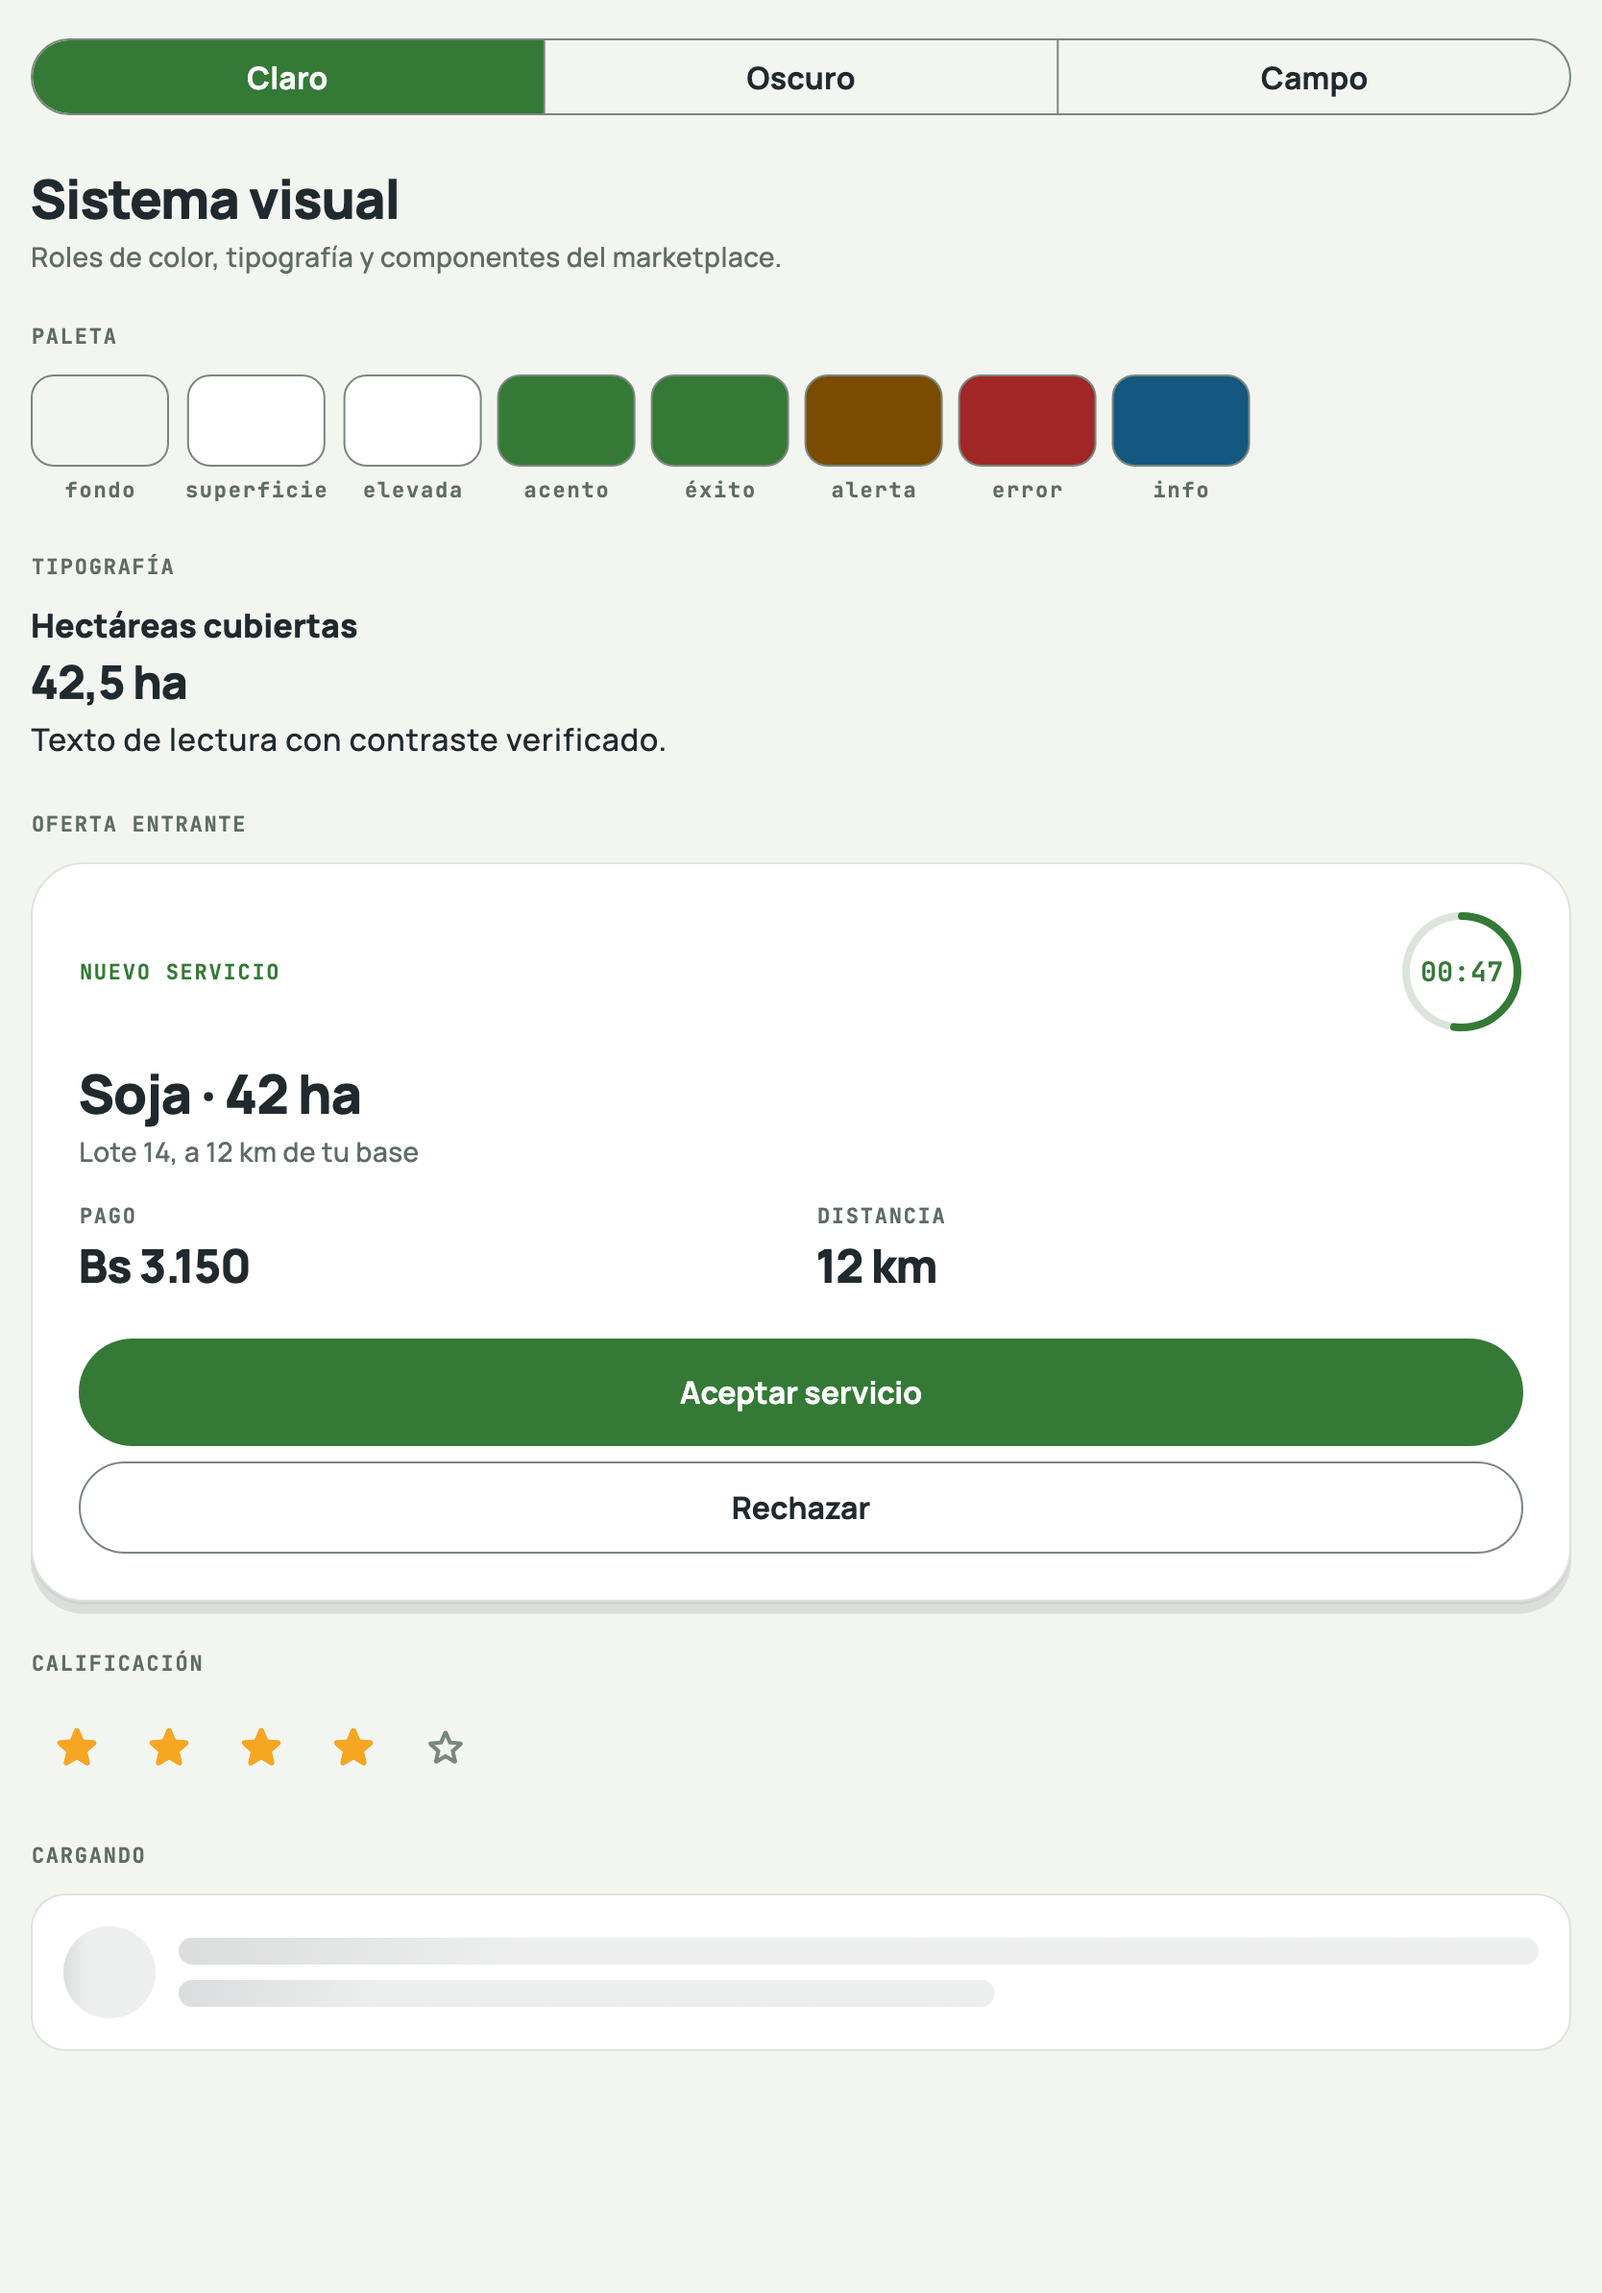
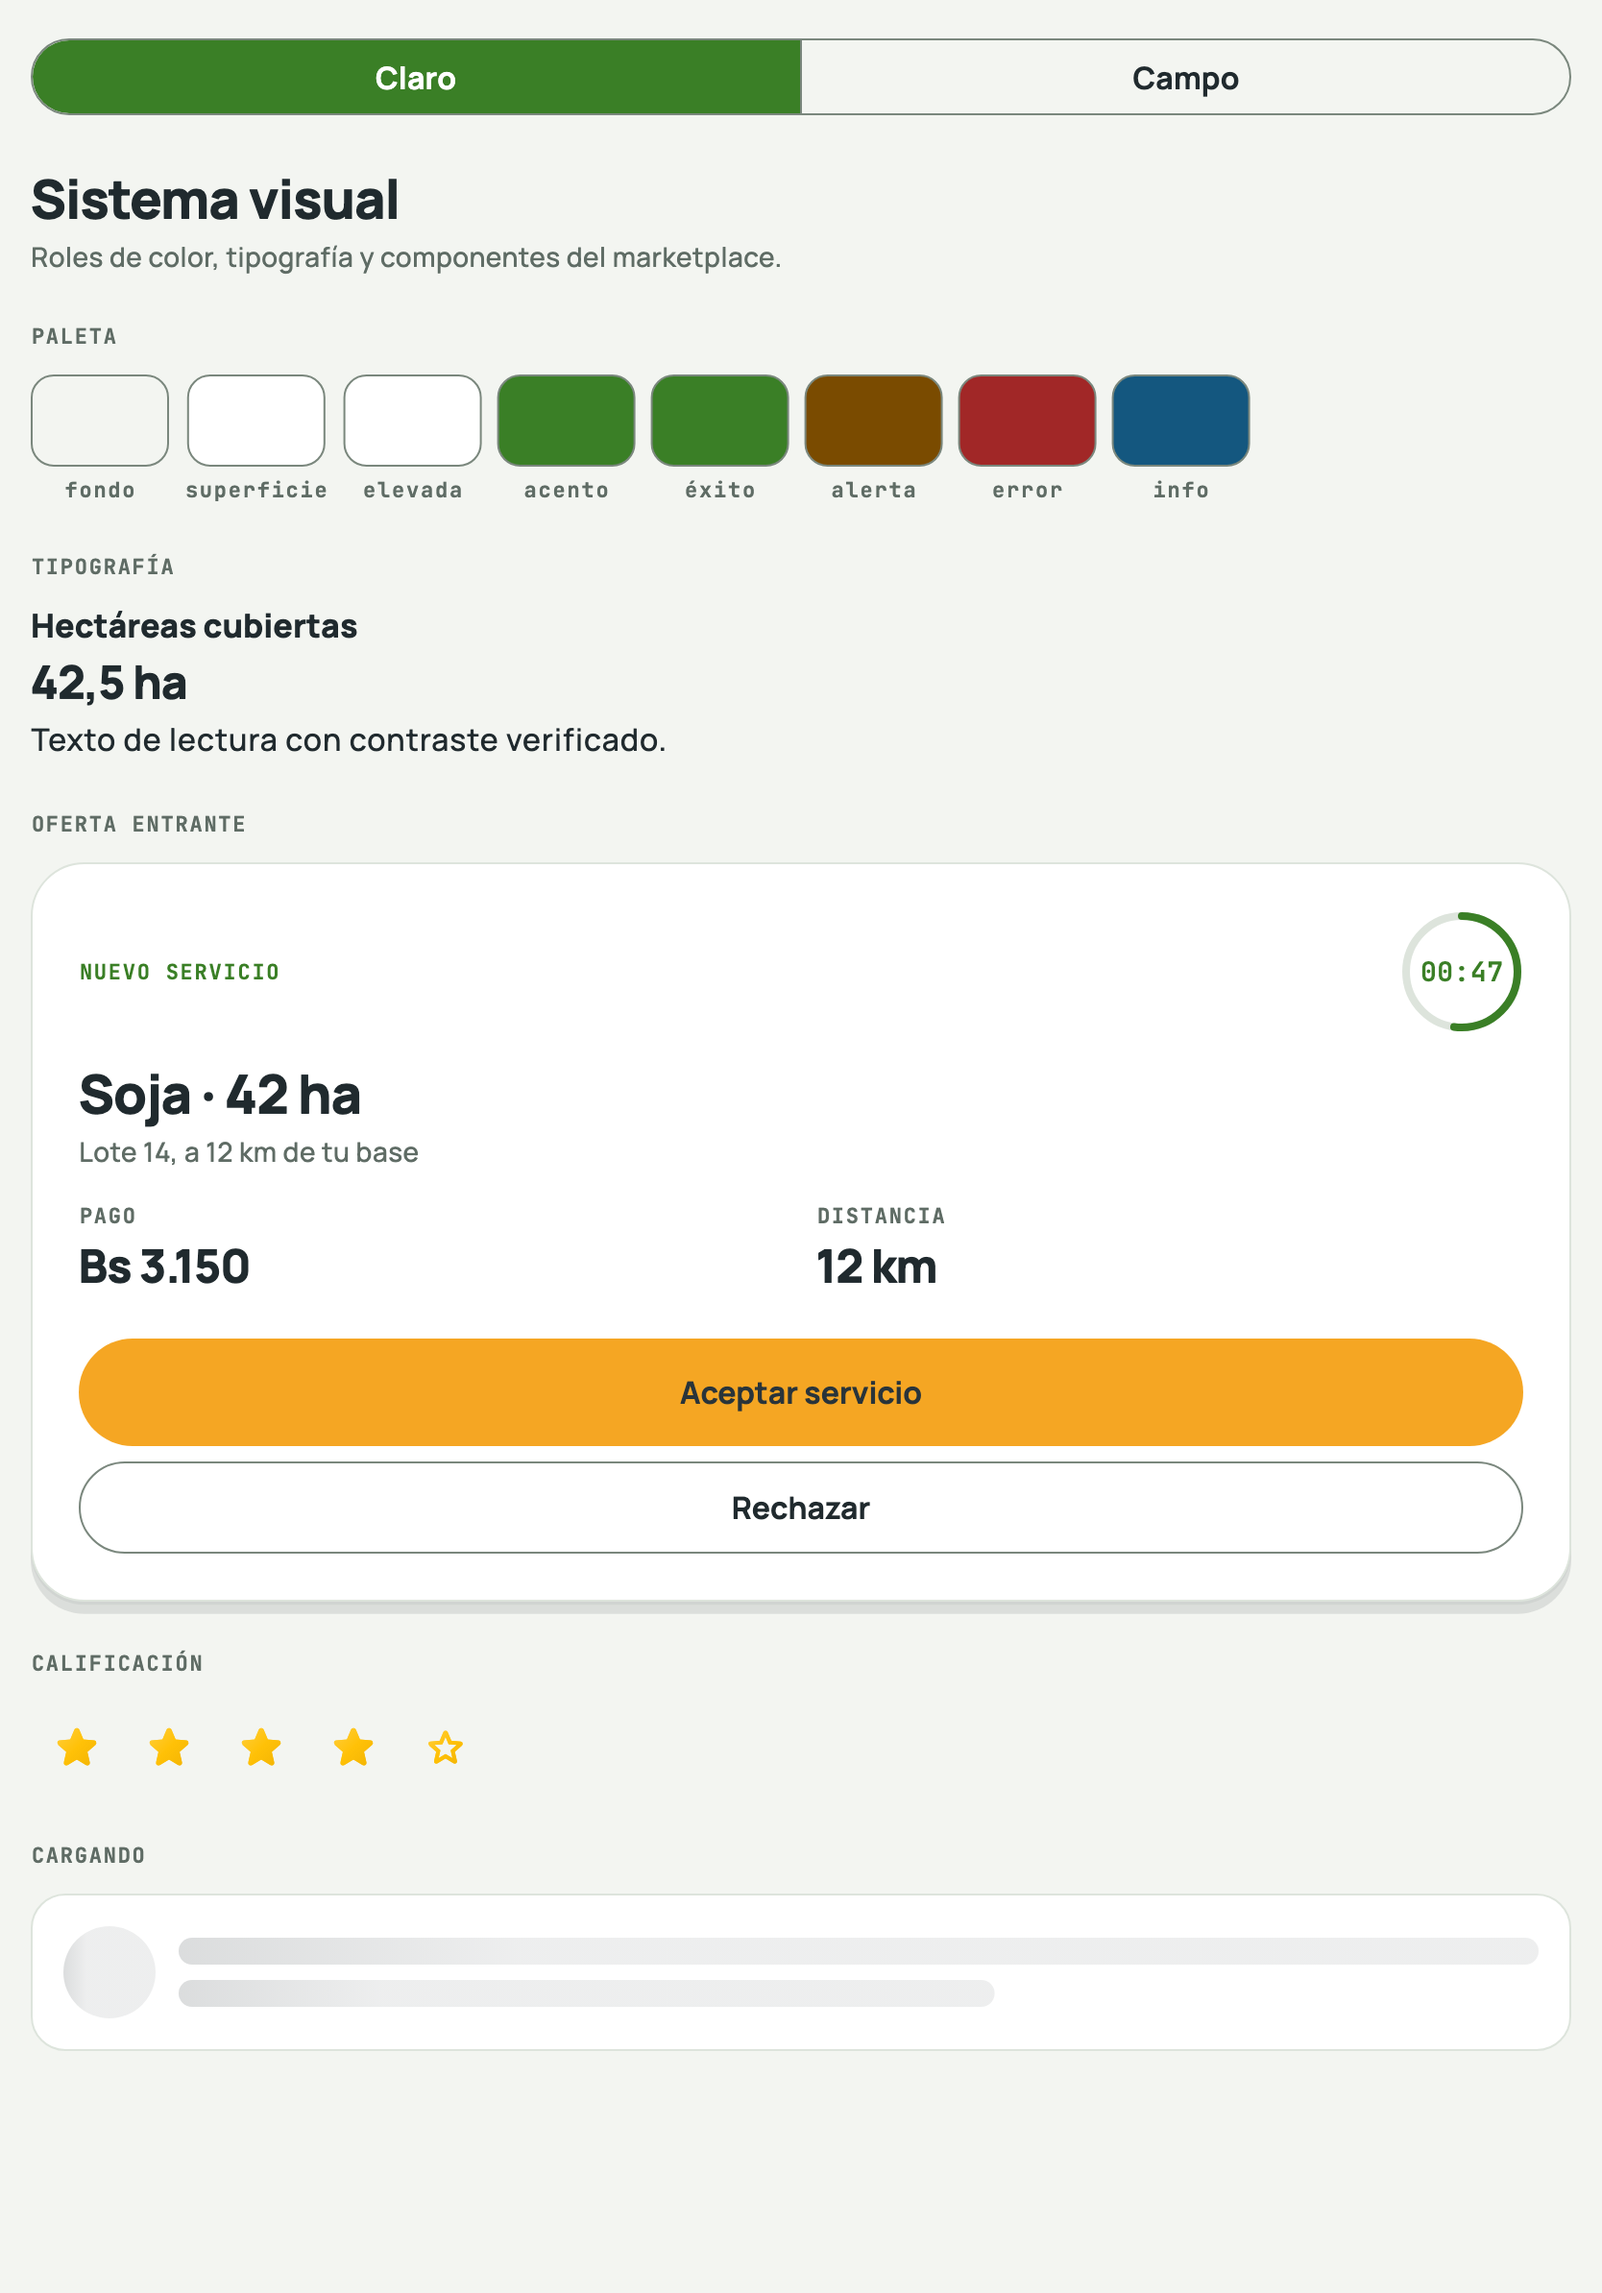
Corrige los textos que rompían el CI: cadenas de contraseña al ARB y redacción neutra

diff --git a/lib/l10n/app_localizations.dart b/lib/l10n/app_localizations.dart
@@ -6298,7 +6298,7 @@ abstract class AppLocalizations {
   /// No description provided for @ajustesCerrarSesionAviso.
   ///
   /// In es, this message translates to:
-  /// **'Tendrás que volver a entrar para usar la app.'**
+  /// **'Tendrás que volver a ingresar para usar la app.'**
   String get ajustesCerrarSesionAviso;
 
   /// No description provided for @ajustesCancelar.
@@ -6532,13 +6532,13 @@ abstract class AppLocalizations {
   /// No description provided for @datosPersonalesErrorDetalle.
   ///
   /// In es, this message translates to:
-  /// **'Revisa tu conexión e inténtalo de nuevo.'**
+  /// **'Revisa tu conexión y vuelve a intentarlo.'**
   String get datosPersonalesErrorDetalle;
 
   /// No description provided for @datosPersonalesErrorGuardar.
   ///
   /// In es, this message translates to:
-  /// **'No pudimos guardar tus datos. Inténtalo de nuevo.'**
+  /// **'No pudimos guardar tus datos. Vuelve a intentarlo.'**
   String get datosPersonalesErrorGuardar;
 
   /// No description provided for @datosPersonalesErrorSinConexion.
@@ -6598,7 +6598,7 @@ abstract class AppLocalizations {
   /// No description provided for @datosPersonalesErrorEnviar.
   ///
   /// In es, this message translates to:
-  /// **'No pudimos enviar tu solicitud. Inténtalo de nuevo.'**
+  /// **'No pudimos enviar tu solicitud. Vuelve a intentarlo.'**
   String get datosPersonalesErrorEnviar;
 
   /// No description provided for @datosPersonalesSolicitudAbierta.
@@ -6754,7 +6754,7 @@ abstract class AppLocalizations {
   /// No description provided for @permisosNotificacionesTitulo.
   ///
   /// In es, this message translates to:
-  /// **'Avisos de solicitudes nuevas'**
+  /// **'Notificaciones de solicitudes nuevas'**
   String get permisosNotificacionesTitulo;
 
   /// No description provided for @permisosNotificacionesMotivo.
@@ -6958,7 +6958,7 @@ abstract class AppLocalizations {
   /// No description provided for @bandejaVacioSistemaTitulo.
   ///
   /// In es, this message translates to:
-  /// **'Sin avisos del sistema'**
+  /// **'Sin notificaciones del sistema'**
   String get bandejaVacioSistemaTitulo;
 
   /// No description provided for @bandejaVacioSistemaDetalle.
@@ -7008,6 +7008,18 @@ abstract class AppLocalizations {
   /// In es, this message translates to:
   /// **'Licencia, matrícula, seguro y más'**
   String get perfilR3DocumentosDetalle;
+
+  /// No description provided for @contrasenaErrorSinRed.
+  ///
+  /// In es, this message translates to:
+  /// **'No hay conexión. Revisa tu señal y vuelve a intentarlo: lo que escribiste se conserva.'**
+  String get contrasenaErrorSinRed;
+
+  /// No description provided for @contrasenaErrorCanalNoDisponible.
+  ///
+  /// In es, this message translates to:
+  /// **'Ese medio no está disponible ahora. Elige otro para recibir el código.'**
+  String get contrasenaErrorCanalNoDisponible;
 }
 
 class _AppLocalizationsDelegate

diff --git a/lib/nucleo/cuenta/presentation/cambiar_contrasena_cubit.dart b/lib/nucleo/cuenta/presentation/cambiar_contrasena_cubit.dart
@@ -55,10 +55,18 @@ class CambiarContrasenaEstado {
 /// contraseña nueva. La contraseña y el código pasan por parámetro y no se
 /// guardan en el estado.
 class CambiarContrasenaCubit extends Cubit<CambiarContrasenaEstado> {
-  CambiarContrasenaCubit(this._repositorio)
-    : super(const CambiarContrasenaEstado());
+  CambiarContrasenaCubit(
+    this._repositorio, {
+    required this.textoSinRed,
+    required this.textoCanalNoDisponible,
+  }) : super(const CambiarContrasenaEstado());
 
   final ContrasenaRepositorio _repositorio;
+
+  /// Textos que el cubit no puede leer solo (viven en el ARB): los entrega la
+  /// pantalla al crearlo.
+  final String textoSinRed;
+  final String textoCanalNoDisponible;
 
   void elegirCanal(CanalCodigo canal) =>
       emit(state.copiar(canal: canal, quitarMensaje: true, sinConexion: false));
@@ -77,7 +85,9 @@ class CambiarContrasenaCubit extends Cubit<CambiarContrasenaEstado> {
         ),
       );
     } on SinConexion {
-      emit(state.copiar(enviando: false, sinConexion: true, mensaje: _sinRed));
+      emit(
+        state.copiar(enviando: false, sinConexion: true, mensaje: textoSinRed),
+      );
     } on OperacionRechazada catch (e) {
       emit(state.copiar(enviando: false, mensaje: _paraCanal(e)));
     }
@@ -103,7 +113,9 @@ class CambiarContrasenaCubit extends Cubit<CambiarContrasenaEstado> {
       );
       emit(state.copiar(paso: PasoContrasena.listo, enviando: false));
     } on SinConexion {
-      emit(state.copiar(enviando: false, sinConexion: true, mensaje: _sinRed));
+      emit(
+        state.copiar(enviando: false, sinConexion: true, mensaje: textoSinRed),
+      );
     } on OperacionRechazada catch (e) {
       emit(
         state.copiar(
@@ -125,14 +137,8 @@ class CambiarContrasenaCubit extends Cubit<CambiarContrasenaEstado> {
     ),
   );
 
-  static const _sinRed =
-      'No hay conexión. Revisa tu señal y vuelve a intentarlo: lo que '
-      'escribiste se conserva.';
-
   /// El `503` no trae mensaje propio en [OperacionRechazada]: se cambia por
   /// uno que diga qué hacer.
-  static String _paraCanal(OperacionRechazada e) =>
-      e.motivo == 'canal_no_disponible'
-      ? 'Ese medio no está disponible ahora. Elige otro para recibir el código.'
-      : e.mensaje;
+  String _paraCanal(OperacionRechazada e) =>
+      e.motivo == 'canal_no_disponible' ? textoCanalNoDisponible : e.mensaje;
 }

diff --git a/lib/l10n/app_localizations_es.dart b/lib/l10n/app_localizations_es.dart
@@ -3868,7 +3868,7 @@ class AppLocalizationsEs extends AppLocalizations {
 
   @override
   String get ajustesCerrarSesionAviso =>
-      'Tendrás que volver a entrar para usar la app.';
+      'Tendrás que volver a ingresar para usar la app.';
 
   @override
   String get ajustesCancelar => 'Cancelar';
@@ -4006,11 +4006,11 @@ class AppLocalizationsEs extends AppLocalizations {
 
   @override
   String get datosPersonalesErrorDetalle =>
-      'Revisa tu conexión e inténtalo de nuevo.';
+      'Revisa tu conexión y vuelve a intentarlo.';
 
   @override
   String get datosPersonalesErrorGuardar =>
-      'No pudimos guardar tus datos. Inténtalo de nuevo.';
+      'No pudimos guardar tus datos. Vuelve a intentarlo.';
 
   @override
   String get datosPersonalesErrorSinConexion =>
@@ -4046,7 +4046,7 @@ class AppLocalizationsEs extends AppLocalizations {
 
   @override
   String get datosPersonalesErrorEnviar =>
-      'No pudimos enviar tu solicitud. Inténtalo de nuevo.';
+      'No pudimos enviar tu solicitud. Vuelve a intentarlo.';
 
   @override
   String get datosPersonalesSolicitudAbierta =>
@@ -4131,7 +4131,8 @@ class AppLocalizationsEs extends AppLocalizations {
       'Para centrar el mapa en donde estás y mostrarte las solicitudes cercanas. Solo se usa mientras miras el mapa y no se guarda.';
 
   @override
-  String get permisosNotificacionesTitulo => 'Avisos de solicitudes nuevas';
+  String get permisosNotificacionesTitulo =>
+      'Notificaciones de solicitudes nuevas';
 
   @override
   String get permisosNotificacionesMotivo =>
@@ -4244,7 +4245,7 @@ class AppLocalizationsEs extends AppLocalizations {
       'Cuando alguien te escriba por un servicio, lo verás aquí.';
 
   @override
-  String get bandejaVacioSistemaTitulo => 'Sin avisos del sistema';
+  String get bandejaVacioSistemaTitulo => 'Sin notificaciones del sistema';
 
   @override
   String get bandejaVacioSistemaDetalle =>
@@ -4270,4 +4271,12 @@ class AppLocalizationsEs extends AppLocalizations {
 
   @override
   String get perfilR3DocumentosDetalle => 'Licencia, matrícula, seguro y más';
+
+  @override
+  String get contrasenaErrorSinRed =>
+      'No hay conexión. Revisa tu señal y vuelve a intentarlo: lo que escribiste se conserva.';
+
+  @override
+  String get contrasenaErrorCanalNoDisponible =>
+      'Ese medio no está disponible ahora. Elige otro para recibir el código.';
 }

diff --git a/test/nucleo/cuenta/cambiar_contrasena_cubit_test.dart b/test/nucleo/cuenta/cambiar_contrasena_cubit_test.dart
@@ -31,7 +31,11 @@ class _Falso implements ContrasenaRepositorio {
 
 void main() {
   CambiarContrasenaCubit crear(ContrasenaRepositorio r) =>
-      CambiarContrasenaCubit(r);
+      CambiarContrasenaCubit(
+        r,
+        textoSinRed: 'sin red',
+        textoCanalNoDisponible: 'canal no disponible',
+      );
 
   test('empieza en el canal de WhatsApp, sin error ni envío', () {
     final cubit = crear(_Falso());
@@ -61,7 +65,7 @@ void main() {
       await cubit.pedirCodigo();
       expect(cubit.state.paso, PasoContrasena.canal);
       expect(cubit.state.sinConexion, isTrue);
-      expect(cubit.state.mensaje, contains('conexión'));
+      expect(cubit.state.mensaje, 'sin red');
     },
   );
 
@@ -77,7 +81,7 @@ void main() {
     );
     await cubit.pedirCodigo();
     expect(cubit.state.paso, PasoContrasena.canal);
-    expect(cubit.state.mensaje, contains('Elige otro'));
+    expect(cubit.state.mensaje, 'canal no disponible');
   });
 
   test('sin destino muestra el mensaje del servidor', () async {

diff --git a/lib/nucleo/cuenta/presentation/cambiar_contrasena_pantalla.dart b/lib/nucleo/cuenta/presentation/cambiar_contrasena_pantalla.dart
@@ -24,8 +24,11 @@ class CambiarContrasenaPantalla extends StatelessWidget {
   Widget build(BuildContext context) {
     final t = AppLocalizations.of(context);
     return BlocProvider(
-      create: (context) =>
-          CambiarContrasenaCubit(context.read<ContrasenaRepositorio>()),
+      create: (context) => CambiarContrasenaCubit(
+        context.read<ContrasenaRepositorio>(),
+        textoSinRed: t.contrasenaErrorSinRed,
+        textoCanalNoDisponible: t.contrasenaErrorCanalNoDisponible,
+      ),
       child: Scaffold(
         appBar: AppBar(title: Text(t.contrasenaTitulo)),
         body: SafeArea(
